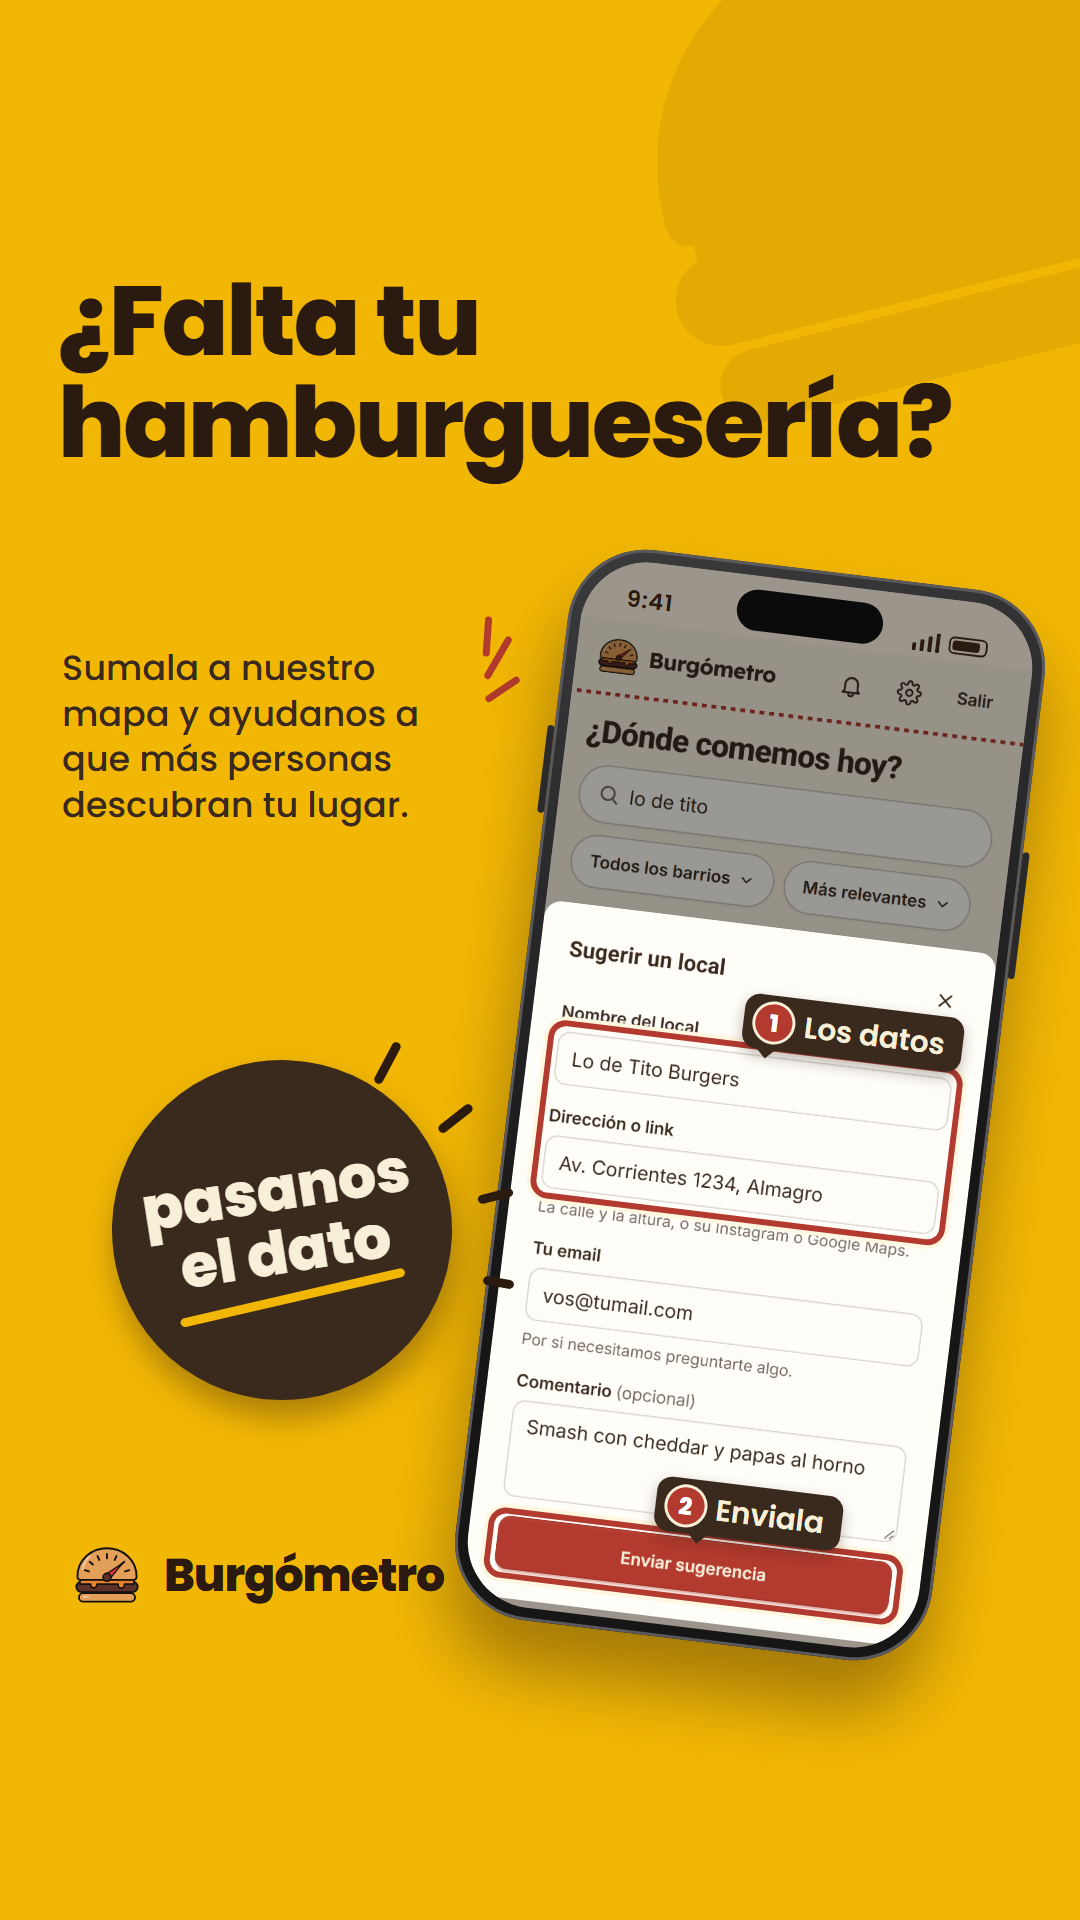
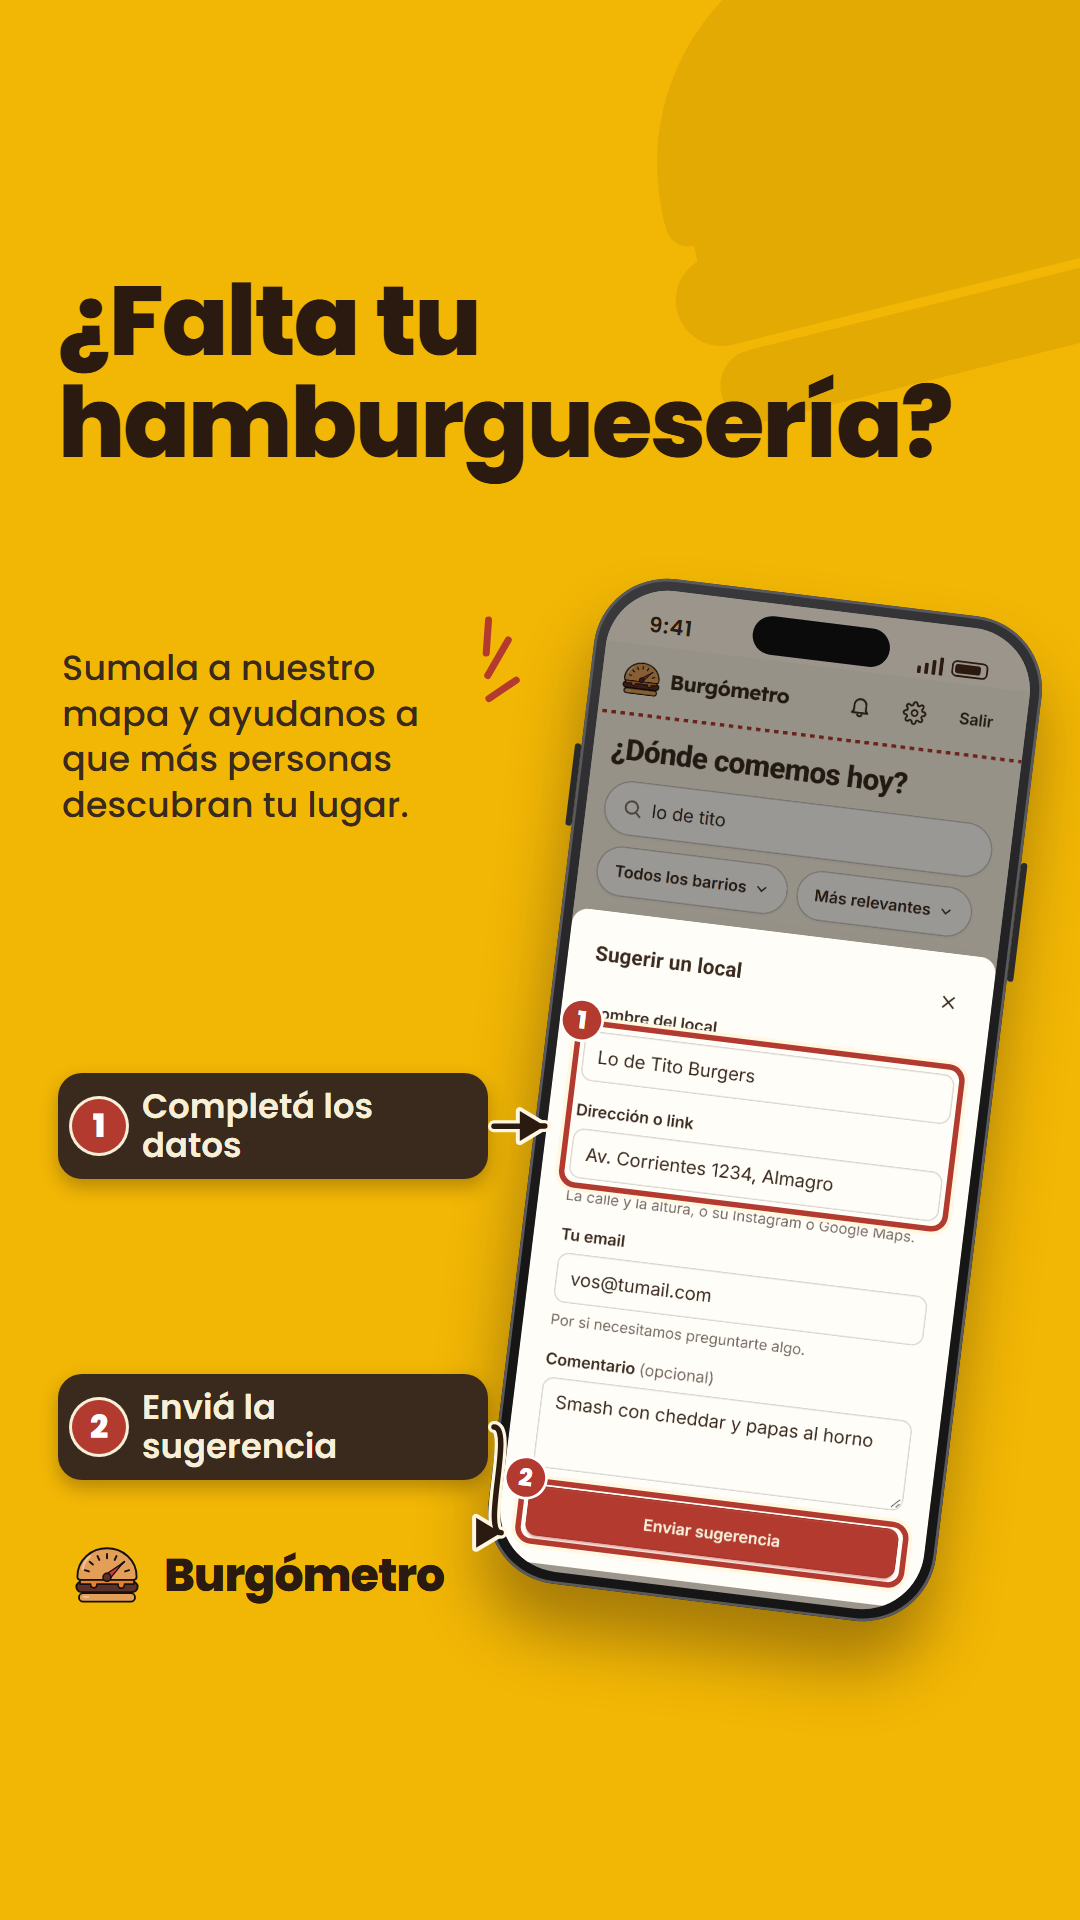
Post de Instagram: pasos fuera del celu, con flecha al aro de la captura

Changed region(s): [[0.0306, 0.2812, 0.9778, 0.9062]]

diff --git a/docs/post-ig/README.md b/docs/post-ig/README.md
@@ -34,4 +34,4 @@ La lámina 9 muestra «Compartir en historias» (#278), ya en main; el local, el
 
 Las láminas 3a, 3b y 9 asumen que el manifest (#281) ya está deployado: sin él, Chrome en Android solo ofrece
 «Agregar a la pantalla principal», con un ícono común, y no «Instalar». **No publiques el post antes del deploy del manifest.**
-En iPhone (Safari) «Compartir > Agregar a inicio» ya funciona hoy. Los pasos de Android e iPhone los verificó Juan en sus celulares. Los pasos van numerados en rojo y los globos están pensados para no tapar los textos importantes de la captura.
+En iPhone (Safari) «Compartir > Agregar a inicio» ya funciona hoy. Los pasos de Android e iPhone los verificó Juan en sus celulares. Los pasos van en tarjetas fuera del celu, numerados en rojo y unidos con una flecha a un aro rojo del mismo número sobre la pantalla (así no tapan la captura).
